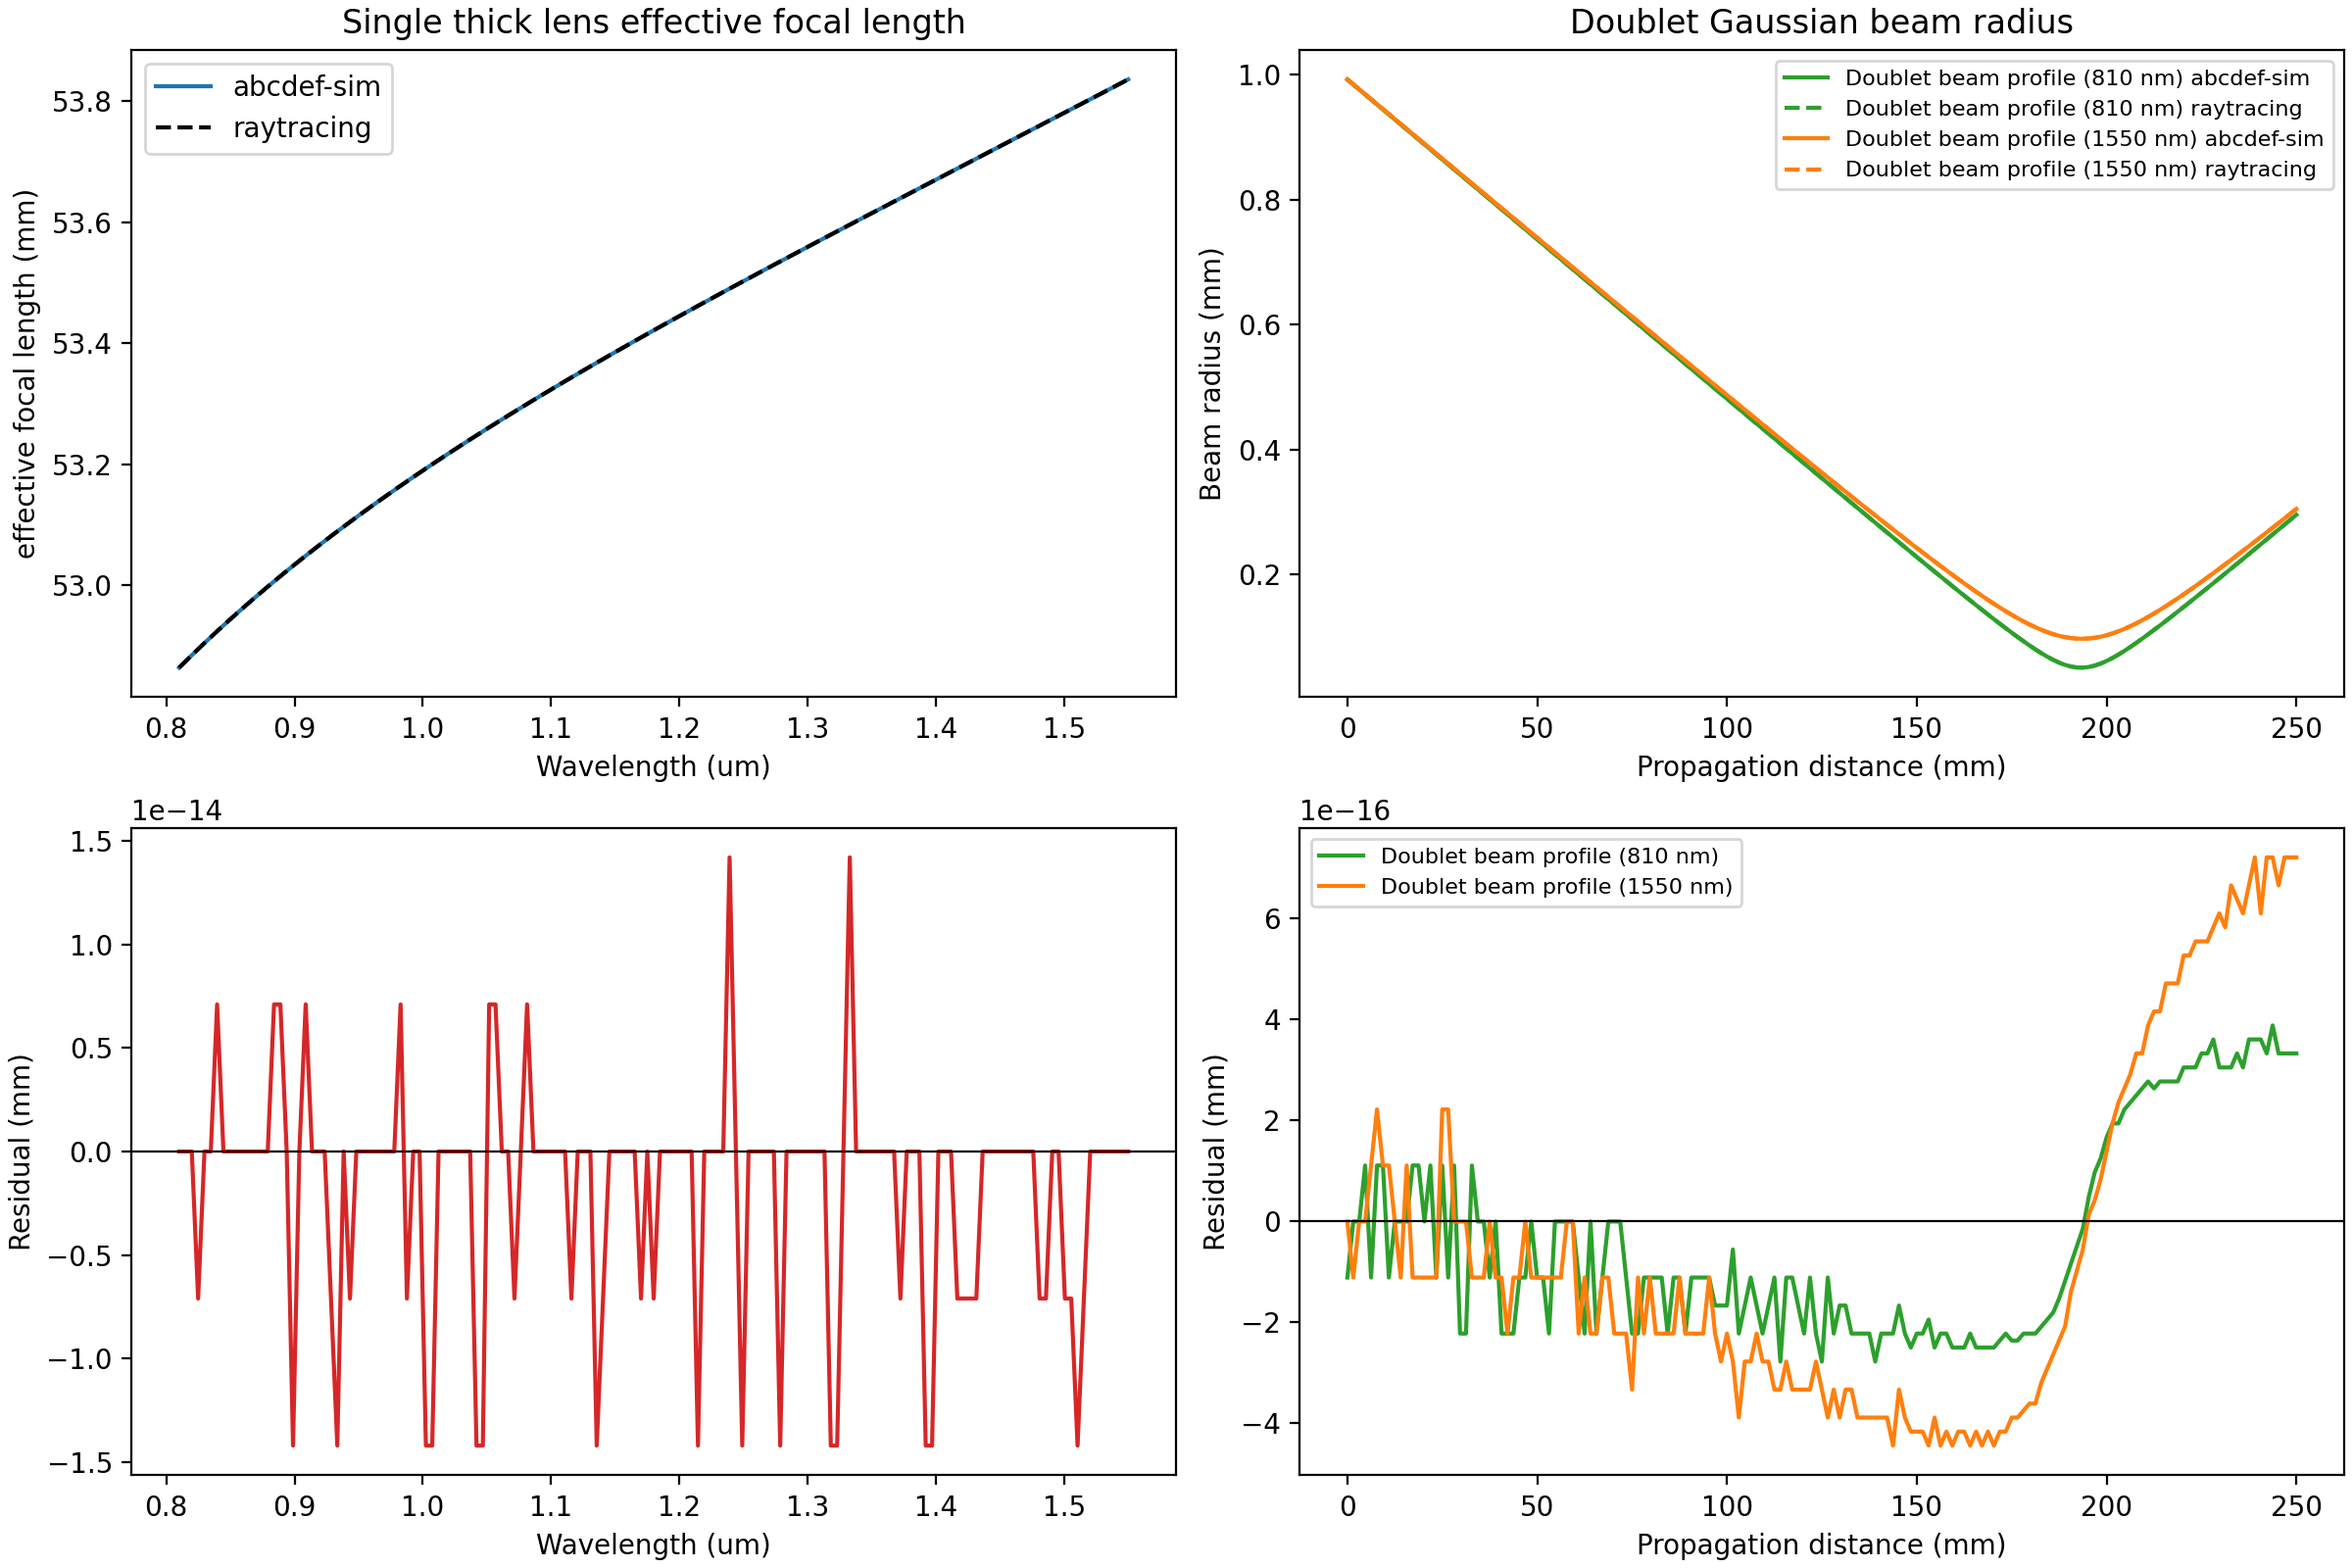
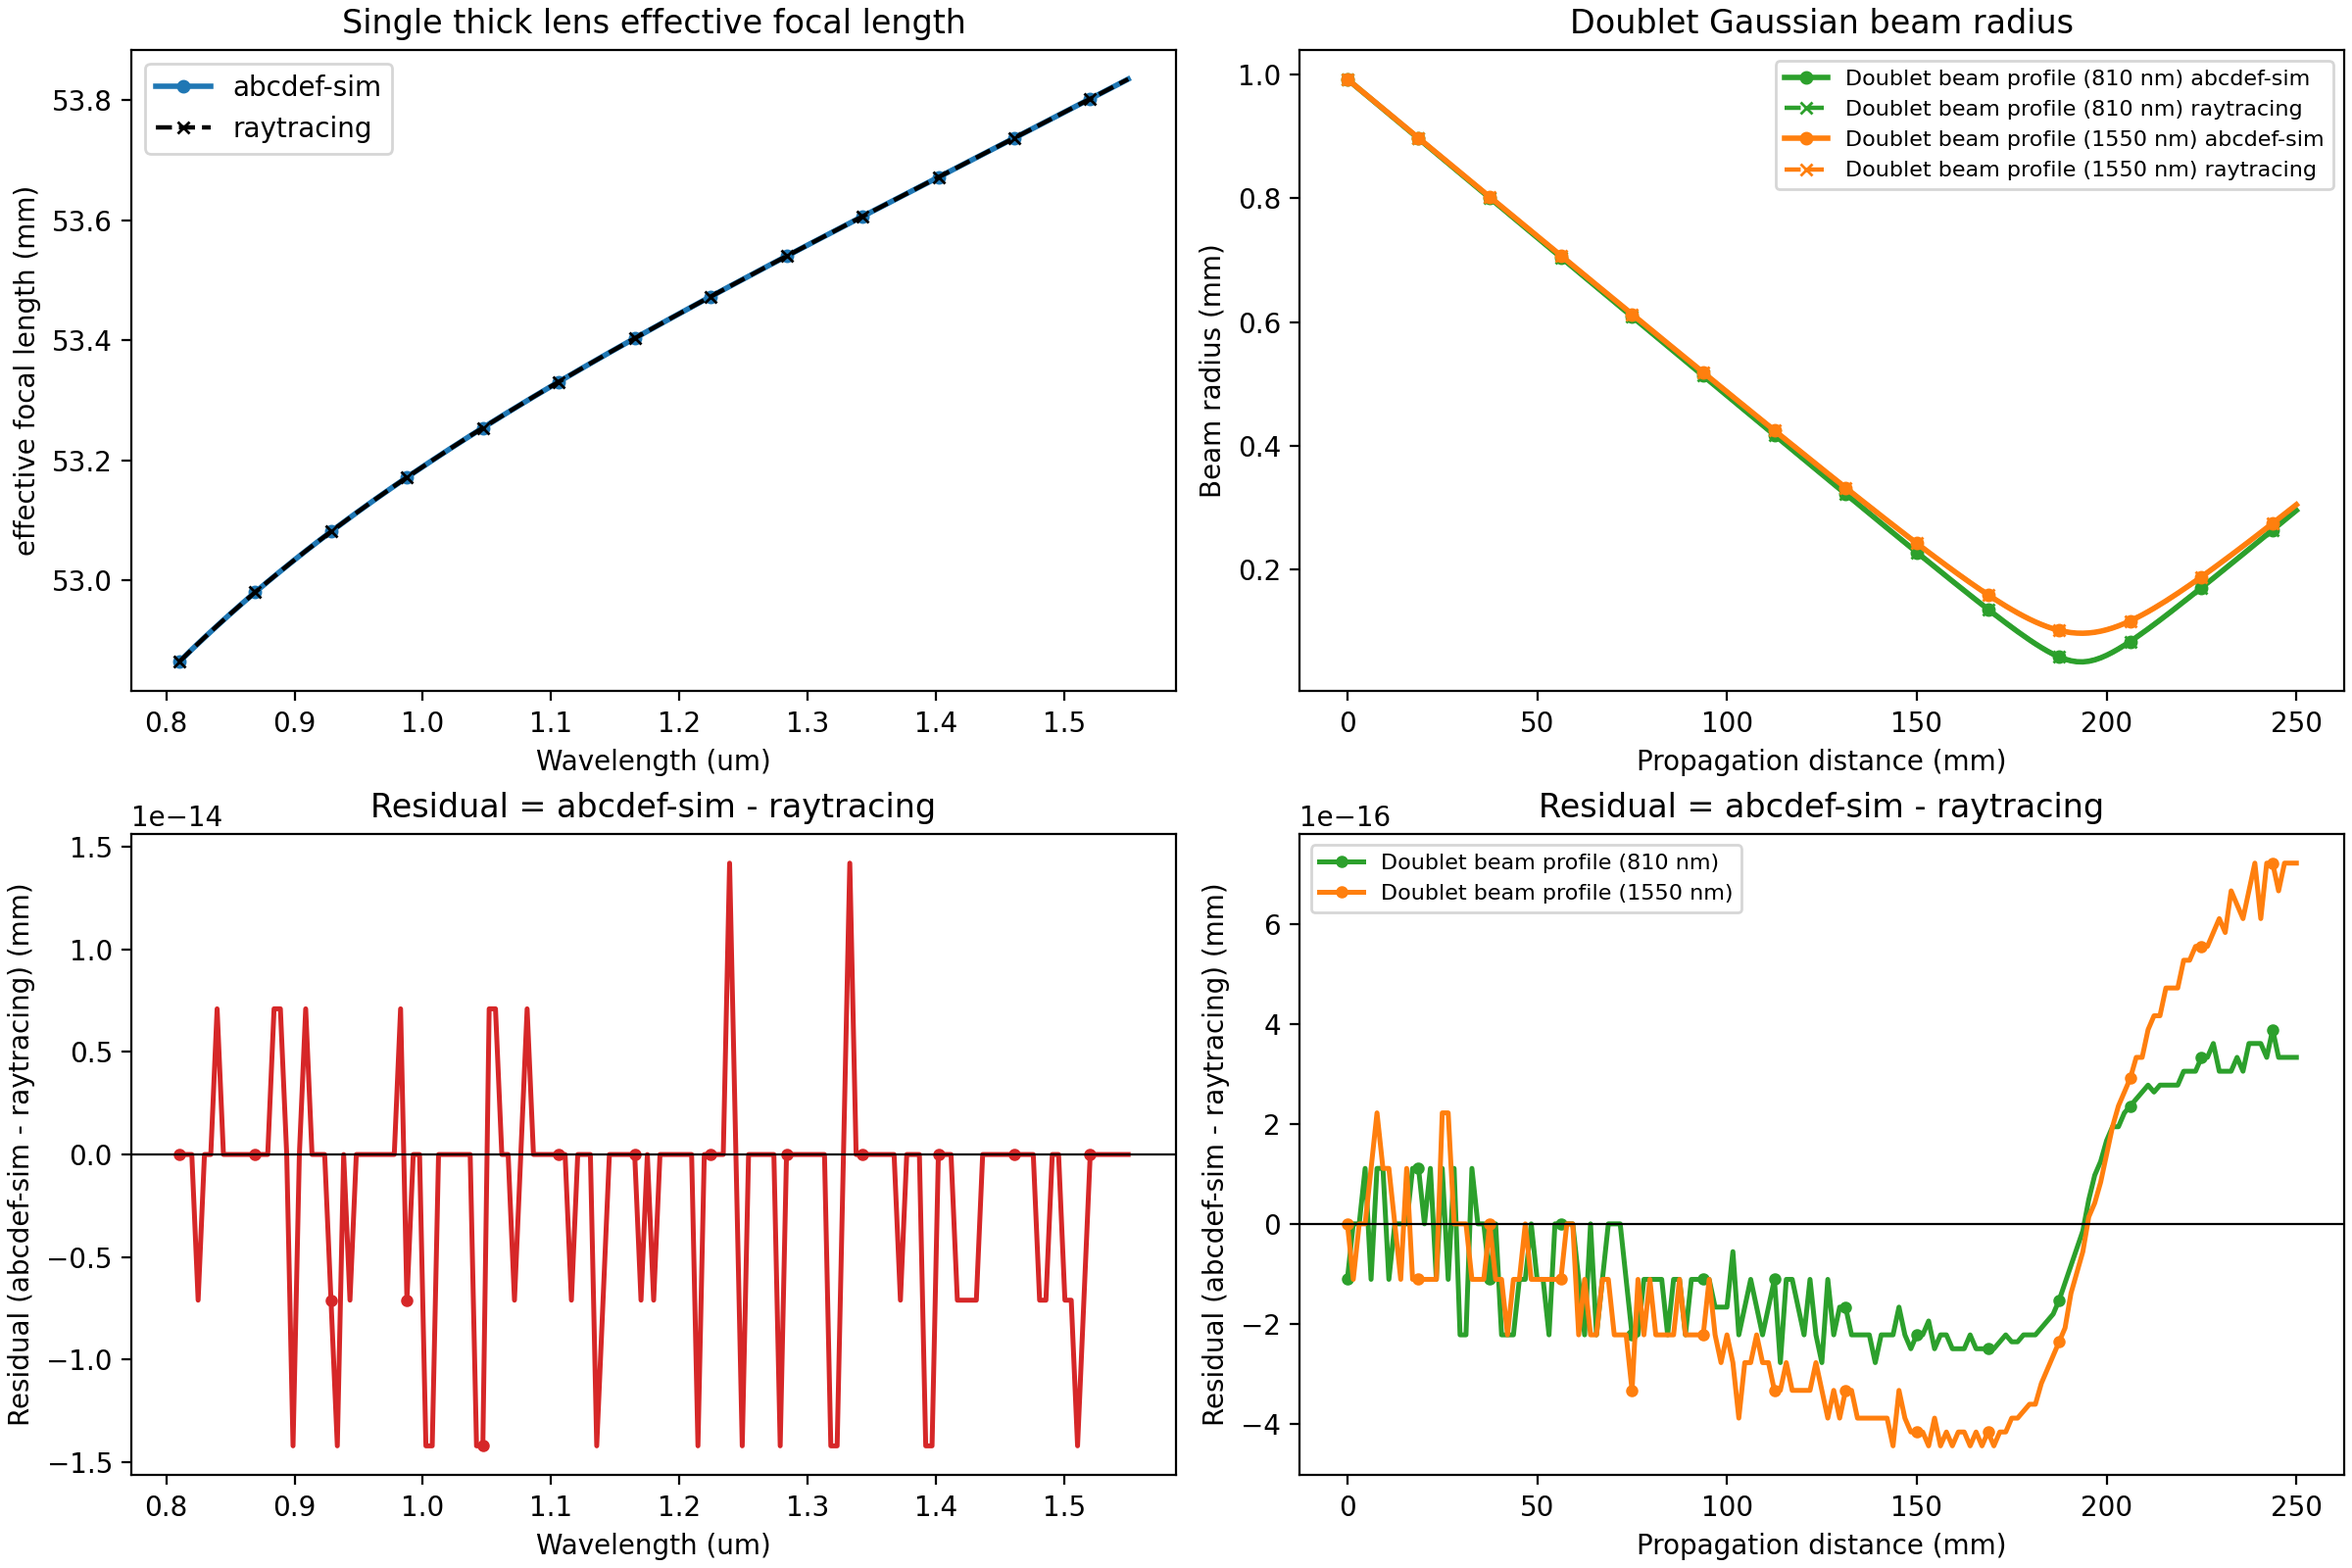
docs: clarify residual plots

diff --git a/examples/compare_thick_lens_to_raytracing.py b/examples/compare_thick_lens_to_raytracing.py
@@ -58,24 +58,68 @@ def write_similarity_plot(output_path: Path) -> Path:
     beam_profiles = doublet_beam_profile_comparisons()
 
     fig, axes = plt.subplots(2, 2, figsize=(12, 8), constrained_layout=True)
+    local_style = {
+        "linewidth": 2.0,
+        "linestyle": "-",
+        "marker": "o",
+        "markersize": 5.5,
+        "markerfacecolor": "white",
+        "markeredgewidth": 1.2,
+        "markevery": 8,
+        "zorder": 2,
+    }
+    reference_style = {
+        "linewidth": 1.8,
+        "linestyle": "--",
+        "marker": "x",
+        "markersize": 6.0,
+        "markeredgewidth": 1.4,
+        "markevery": 8,
+        "zorder": 3,
+    }
 
-    axes[0, 0].plot(focal.coordinates, focal.local, color="tab:blue", label="abcdef-sim")
+    axes[0, 0].plot(
+        focal.coordinates,
+        focal.local,
+        color="tab:blue",
+        label="abcdef-sim (solid, o)",
+        **local_style,
+    )
     axes[0, 0].plot(
         focal.coordinates,
         focal.reference,
         color="black",
-        linestyle="--",
-        label="raytracing",
+        label="raytracing (dashed, x)",
+        **reference_style,
     )
     axes[0, 0].set_title(focal.name)
     axes[0, 0].set_xlabel("Wavelength (um)")
     axes[0, 0].set_ylabel(focal.observable_label)
     axes[0, 0].legend()
 
-    axes[1, 0].plot(focal.coordinates, focal.residual(), color="tab:red")
+    axes[1, 0].plot(
+        focal.coordinates,
+        focal.residual(),
+        color="tab:red",
+        linewidth=1.8,
+        marker="o",
+        markersize=4.5,
+        markerfacecolor="white",
+        markeredgewidth=1.0,
+        markevery=8,
+    )
     axes[1, 0].axhline(0.0, color="black", linewidth=0.8)
     axes[1, 0].set_xlabel("Wavelength (um)")
-    axes[1, 0].set_ylabel("Residual (mm)")
+    axes[1, 0].set_ylabel("Residual (abcdef-sim - raytracing) (mm)")
+    axes[1, 0].text(
+        0.02,
+        0.96,
+        "Residual = abcdef-sim - raytracing",
+        transform=axes[1, 0].transAxes,
+        va="top",
+        fontsize=9,
+        bbox={"facecolor": "white", "alpha": 0.8, "edgecolor": "none"},
+    )
 
     colors = ["tab:green", "tab:orange"]
     for comparison, color in zip(beam_profiles, colors, strict=True):
@@ -83,20 +127,27 @@ def write_similarity_plot(output_path: Path) -> Path:
             comparison.coordinates,
             comparison.local,
             color=color,
-            label=f"{comparison.name} abcdef-sim",
+            label=f"{comparison.name} abcdef-sim (solid, o)",
+            **local_style,
         )
         axes[0, 1].plot(
             comparison.coordinates,
             comparison.reference,
             color=color,
-            linestyle="--",
-            label=f"{comparison.name} raytracing",
+            label=f"{comparison.name} raytracing (dashed, x)",
+            **reference_style,
         )
         axes[1, 1].plot(
             comparison.coordinates,
             comparison.residual(),
             color=color,
             label=comparison.name,
+            linewidth=1.8,
+            marker="o",
+            markersize=4.5,
+            markerfacecolor="white",
+            markeredgewidth=1.0,
+            markevery=8,
         )
 
     axes[0, 1].set_title("Doublet Gaussian beam radius")
@@ -106,8 +157,17 @@ def write_similarity_plot(output_path: Path) -> Path:
 
     axes[1, 1].axhline(0.0, color="black", linewidth=0.8)
     axes[1, 1].set_xlabel("Propagation distance (mm)")
-    axes[1, 1].set_ylabel("Residual (mm)")
+    axes[1, 1].set_ylabel("Residual (abcdef-sim - raytracing) (mm)")
     axes[1, 1].legend(fontsize=8)
+    axes[1, 1].text(
+        0.02,
+        0.96,
+        "Residual = abcdef-sim - raytracing",
+        transform=axes[1, 1].transAxes,
+        va="top",
+        fontsize=9,
+        bbox={"facecolor": "white", "alpha": 0.8, "edgecolor": "none"},
+    )
 
     output_path.parent.mkdir(parents=True, exist_ok=True)
     fig.savefig(output_path, dpi=200)

diff --git a/docs/raytracing-validation.md b/docs/raytracing-validation.md
@@ -45,9 +45,14 @@ python scripts/generate_abcd_validation_plot.py
 The checked-in figure below is generated from the same example code path and shows:
 
 - single-lens effective focal length versus wavelength
-- residuals against `raytracing`
+- residuals defined explicitly as `abcdef-sim - raytracing`
 - doublet Gaussian beam-radius overlays at 810 nm and 1550 nm
-- residuals for the doublet beam profiles
+- residuals for the doublet beam profiles using the same `abcdef-sim - raytracing` convention
+
+The overlay styling is backend-specific even when the curves are nearly identical:
+
+- `abcdef-sim`: solid lines with circle markers
+- `raytracing`: dashed lines with `x` markers
 
 ![Thick lens similarity](images/thick_lens_similarity.png)
 
